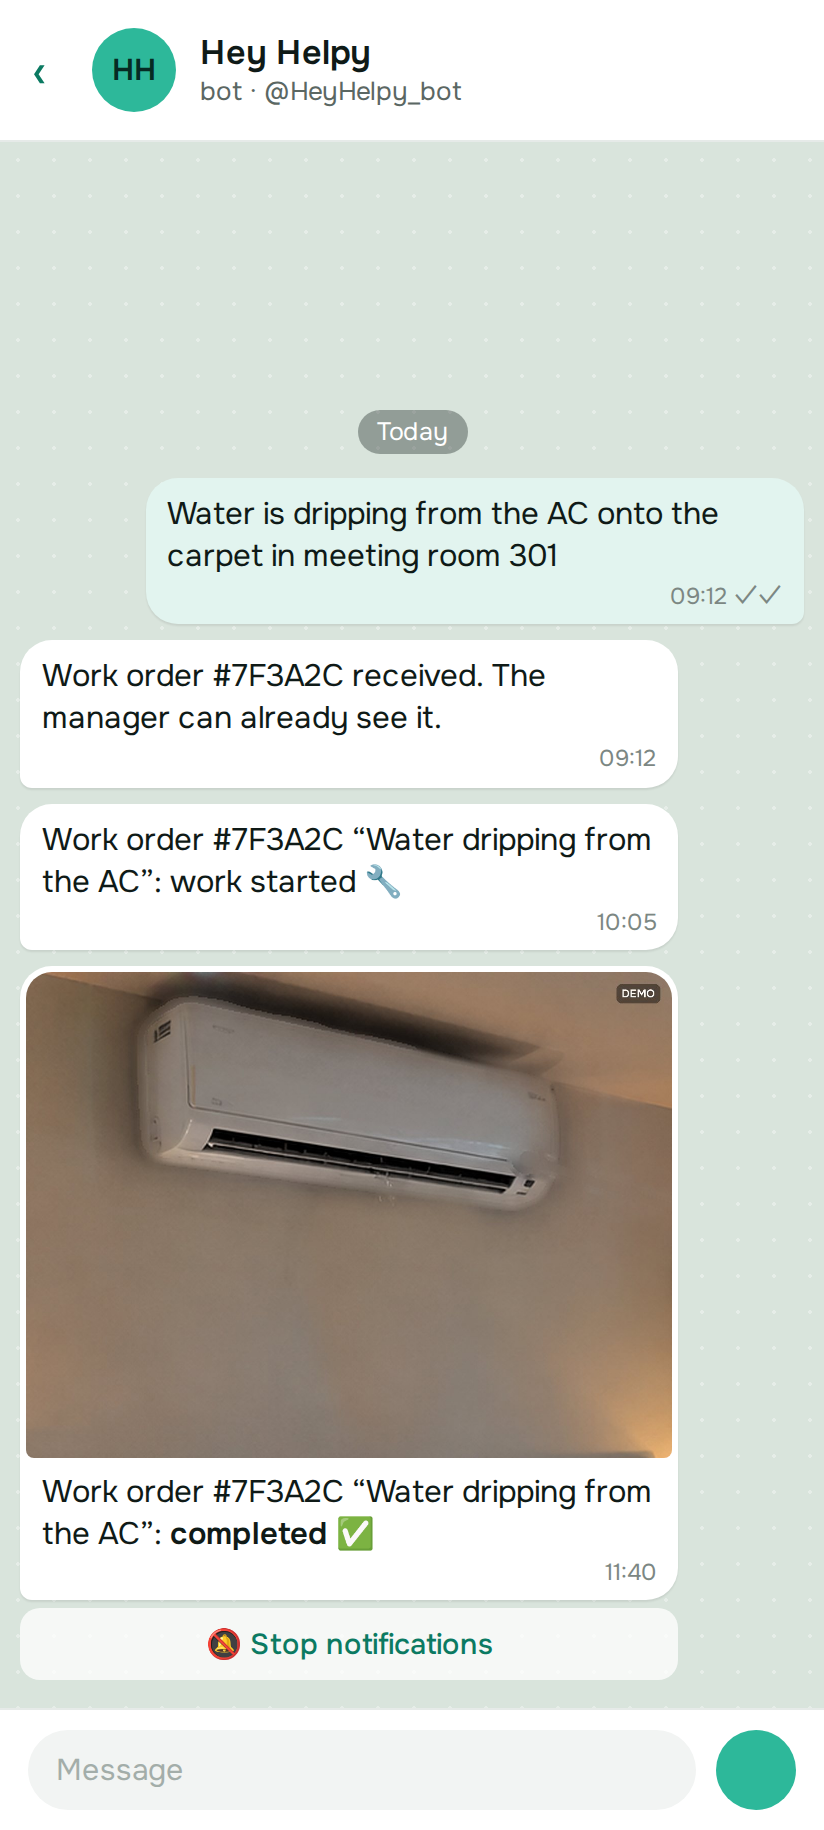
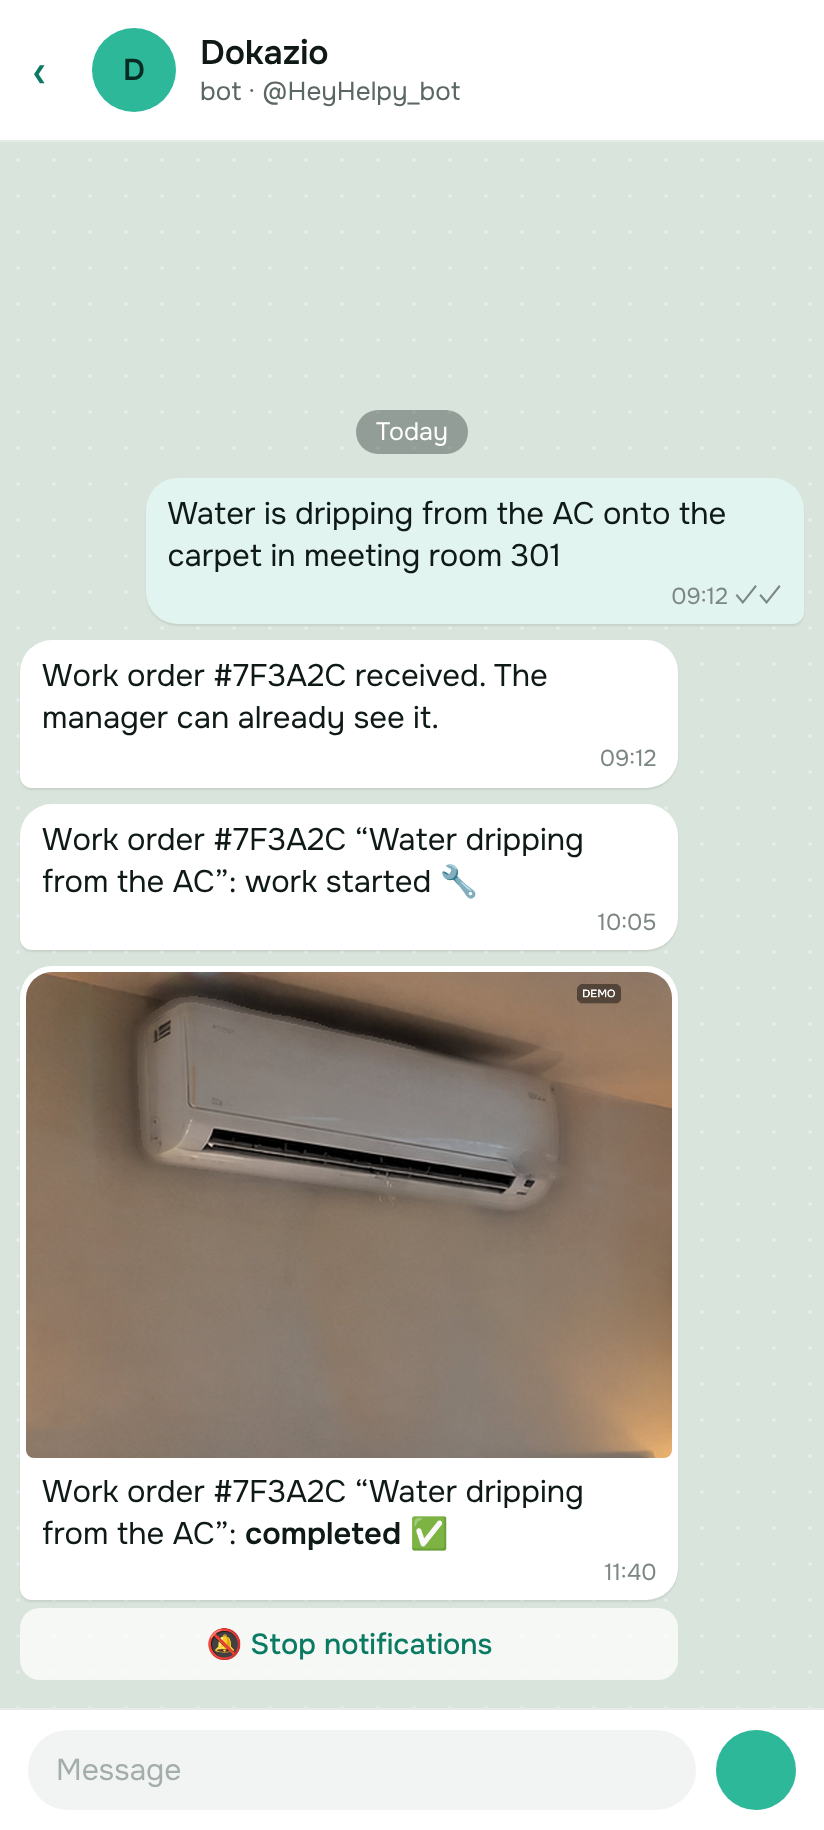
Шаг 36 (блок 5): макеты чата бота — Dokazio; OCR ищет «Helpy»; журнал
Claude-Session: https://claude.ai/code/session_01RVcseMiBzvnmkDfC7tVAEd

diff --git a/docs/reports/step-36.md b/docs/reports/step-36.md
@@ -13,7 +13,12 @@
 - [ ] Проверки, итог, «Что сделать вам», PR
 
 ## Журнал
-- 12.11 · отчёт создан · (этот коммит)
+- 12.11 · отчёт создан · `fad9492`
+- 12.11 · блоки 1, 3, 4: приложение, бот, сайт; deno 135 ✅, сайт ✅, ROI 17 ✅ · `dd717ad`
+- 12.11 · блок 6: документы, CLAUDE.md, /check, инструменты демо, ролики переименованы · `72bef1d`
+- 12.11 · блок 5: макеты чата 22, 28; локальная база `run.sh` ✅; съёмка `/screens --local` идёт
 
 ## Где остановился
-Начинаю блок 1 (приложение).
+Блок 5: `/screens --local` (сборка `build/web_local` с `--no-web-resources-cdn`, CanvasKit с gstatic.com недоступен).
+Дальше: кадры питча `screens.mjs --local --pitch`, `local_pitch.mjs`, сценарий 17 (25–27), ролик `record_demo.sh --v2-only`,
+`images.mjs`, `og.mjs`, `build.mjs`, OCR.
